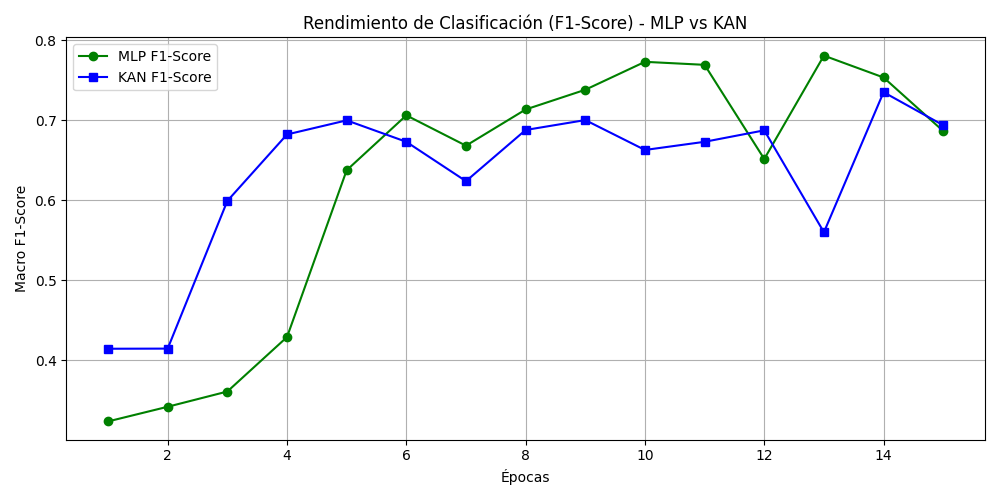
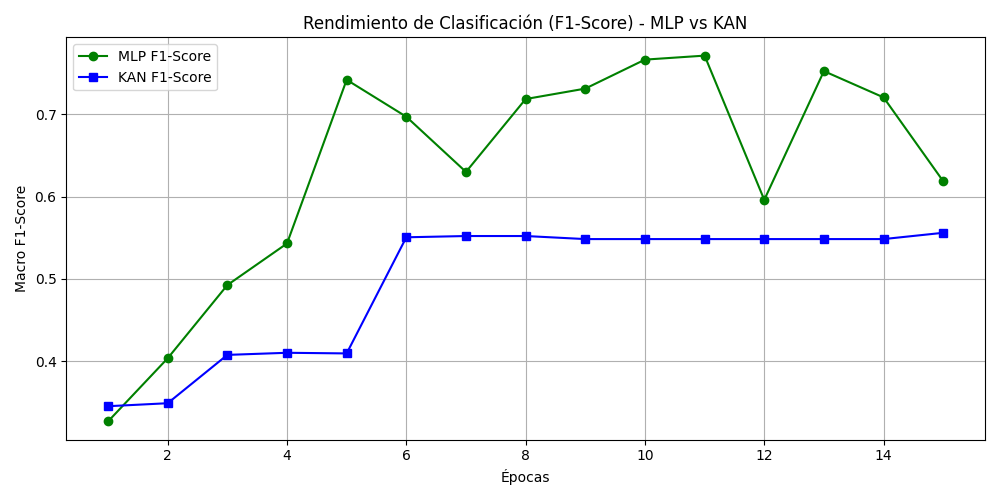
feat: añadiendo README.md y haciendo el versus final en mismas condiciones.

diff --git a/src/utils/visualize.py b/src/utils/visualize.py
@@ -38,4 +38,23 @@ def plot_training_metrics(history_mlp, history_kan, save_dir=None):
     plt.savefig(output_dir / "f1_comparison.png")
     plt.close()
 
+    # Gráfica: Comparación de tiempo (En barras)
+    plt.figure(figsize=(8, 5))
+    modelos = ['MLP Clásico', 'Red KAN']
+    tiempos = [history_mlp["total_time"], history_kan["total_time"]]
+    colores = ['green', 'blue']
+    
+    barras = plt.bar(modelos, tiempos, color=colores, width=0.5)
+    plt.title("Tiempo total de entrenamiento (15 Épocas)")
+    plt.ylabel("Tiempo (segundos)")
+    plt.grid(axis='y', linestyle='--', alpha=0.7)
+
+    for barra in barras:
+        yval = barra.get_height()
+        plt.text(barra.get_x() + barra.get_width() / 2, yval + 0.5, f'{yval:.2f}s', ha='center', va='bottom', fontweight='bold')
+
+    plt.tight_layout()
+    plt.savefig(output_dir / "time_comparison.png")
+    plt.close()
+
     print(f"[INFO] Gráficas guardadas exitosamente en: {output_dir}")

diff --git a/src/main.py b/src/main.py
@@ -83,7 +83,7 @@ if __name__ == "__main__":
     history_mlp = train_and_evaluate(mlp_model, train_dl, test_dl, epochs=15, model_name="MLP Clásico")
 
     print("\n>>> RED KOLMOGOROV-ARNOLD (KAN) <<<")
-    history_kan = train_and_evaluate(kan_model, train_dl, test_dl, epochs=15, lr=0.01, model_name="Red KAN")
+    history_kan = train_and_evaluate(kan_model, train_dl, test_dl, epochs=15, model_name="Red KAN")
 
     # 4. Resumen 
     print(f"\n{'='*50}")

diff --git a/README.md b/README.md
@@ -1,0 +1,85 @@
+# 📊 Occupancy Estimation: KAN vs MLP
+
+![Python](https://img.shields.io/badge/Python-3.14-blue)
+![PyTorch](https://img.shields.io/badge/PyTorch-Deep_Learning-EE4C2C?logo=pytorch)
+![KAN](https://img.shields.io/badge/KAN-Neural_Network-green)
+
+Este proyecto es un estudio comparativo entre la arquitectura tradicional de un Perceptrón Multicapa (MLP) y la reciente Red Kolmogorov-Arnold (KAN). El objetivo es predecir con precisión el número de ocupantes en una habitación (0, 1, 2, o 3 personas) basándose en una red de sensores ambientales de bajo costo ($CO_2$, temperatura, luz, sonido y movimiento).
+
+Se están comparando:
+
+1. **MLP Clásico:** Compuesta con dos capas ocultas (64 y 32 neuronas) y función de activación ReLU. Es el estándar actual de la industria, optimizado para cálculos matriciales rápidos.
+2. **Red KAN:** Una arquitectura que reemplaza los pesos estáticos por funciones parametrizables (B-splines) en las conexiones (aristas). En este caso se eligió una única capa oculta de 8 nodos.
+
+
+## 📈 Resultados (15 Épocas)
+
+Las redes fueron entrenadas y evaluadas bajo las mismas condiciones. La métrica principal de éxito es el **Macro F1-Score**, dado el desbalance natural de las clases (la habitación suele estar vacía la mayor parte del tiempo).
+
+| Métrica | MLP Clásico | Red KAN |
+| :--- | :---: | :---: |
+| **F1-Score (Test)** | **0.6188** | 0.5561 |
+| **Exactitud (Accuracy)** | **95.41%** | 89.19% |
+| **Tiempo de Entrenamiento** | **1.72 s** | 55.94 s |
+| **Parámetros Entrenables** | 3,300 | **2,240** |
+
+Durante el entrenamiento, las redes se comportaron de la siguiente manera:
+
+#### 1. Curva de Aprendizaje (Pérdida)
+Ambos modelos logran minimizar el error exitosamente. El detalle es que el descenso de la KAN es mucho más suave y constante, indicando que la KAN necesita un mayor número de épocas para moldear bien las funciones matematicas (comparado con la rapidez de los pesos del MLP)
+<p align="center">
+  <img src="results/loss_comparison.png" alt="Comparación de Loss" width="700">
+</p>
+
+#### 2. Evolución del F1-Score
+El MLP logra un rendimiento superior más rápido, pero tiene inestabilidad. Por otra parte, la red KAN presenta una curva más estable y predecible, aunque hace una meseta cerca de `0.55`. Esto es debido a que como son funciones más complejas, se evitan cambios bruscos de rendimiento, sacrificando velocidad de adaptación.
+<p align="center">
+  <img src="results/f1_comparison.png" alt="Comparación de F1-Score" width="700">
+</p>
+
+#### 3. Costo Computacional
+El intercambio principal de la arquitectura KAN: mayor precisión con menos parámetros, pero a un costo de tiempo de ejecución significativamente mayor.
+<p align="center">
+  <img src="results/time_comparison.png" alt="Comparación de Tiempo" width="700">
+</p>
+
+---
+
+## 🛠 Estructura del Proyecto
+
+```text
+occupancy-kan-vs-mlp/
+├── data/                   # Dataset de sensores (CSV)
+├── model/                  # Checkpoints generados por KAN
+├── results/                # Gráficas generadas automáticamente
+├── src/
+│   ├── models/
+│   │   ├── mlp_model.py
+│   │   └── kan_model.py
+│   ├── utils/
+│   │   ├── data_loader.py
+│   │   └── visualize.py
+│   └── main.py
+├── requirements.txt
+└── README.md
+```
+
+## ⚙ Instalación
+
+Desde la raíz del proyecto:
+
+```bash
+python -m venv .venv
+source .venv/bin/activate
+pip install --extra-index-url https://download.pytorch.org/whl/cpu -r requirements.txt
+```
+
+## ▶ Ejecución
+
+Con el entorno virtual activado:
+
+```bash
+python src/main.py
+```
+
+Las gráficas se guardan automáticamente en `results/`.
